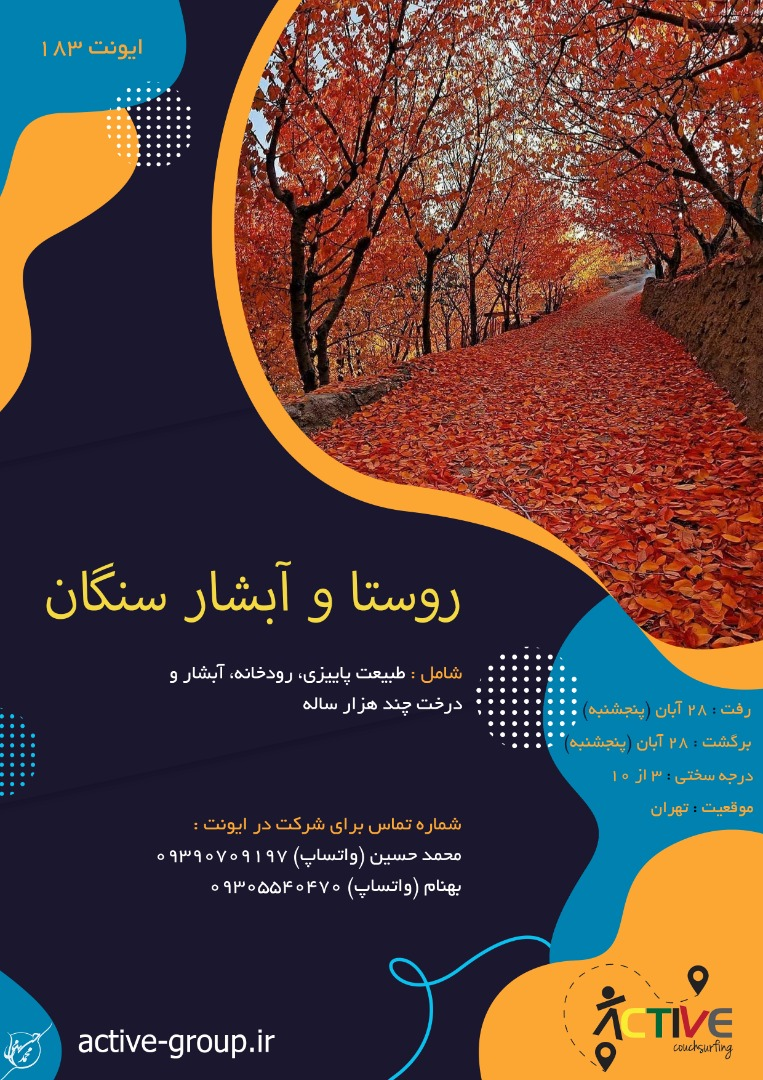
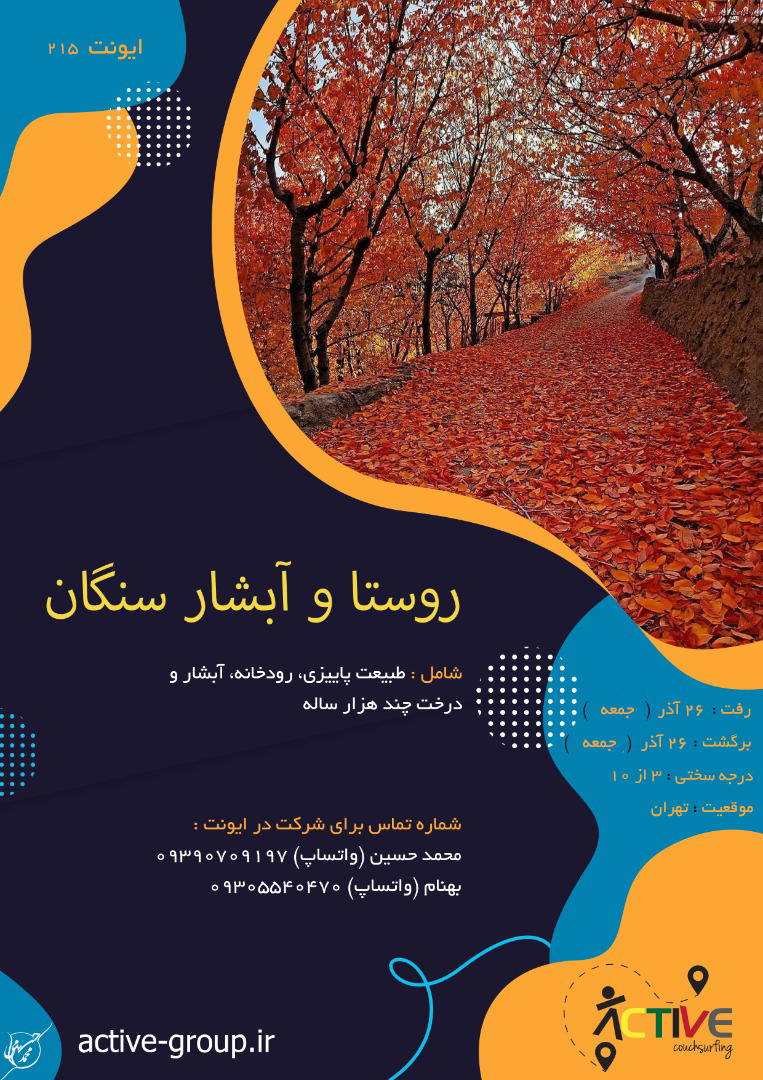
add new posts

diff --git a/_posts/2021-12-16-the-gate-of-gational-garden.md b/_posts/2021-12-16-the-gate-of-gational-garden.md
@@ -1,0 +1,102 @@
+---
+layout: post
+title: "ایونت 215 - میدان مشق"
+author: mhk
+categories: [Nature]
+tags: [nature, tehran]
+image: assets/img/nature/215-mashq.jpeg
+description: "ایونت 215 - میدان مشق"
+featured: true
+hidden: true
+rating: 5
+---
+
+## توضیحات
+میدان مشق تهران مجموعهای تاریخی در قلب پایتخت است که بناهایی از دوران قاجار و پهلوی به یادگار دارد. در طول سالهای پس از انقلاب، این میدان توسعه پیدا کرد و ساختمانهایی به آن اضافه شدند و برخی بناها نیز تغییر کاربری دادند. سردر باغ ملی در ورودی میدان مشق یکی از نمادهای تاریخی تهران است و این دروازه بههمراه دیگر بناهای تاریخی این میدان، از معروفترین جاهای دیدنی تهران به شمار میروند.  
+معماری ساختمانهای میدان مشق نمونههایی از معماری تاریخی ایران بهخصوص در دوره پهلوی اول هستند. در حال حاضر بناهای این میدان را بدون تغییر در بافت تاریخی آنها بازسازی و به ساختمانهای فرهنگی و دولتی تبدیل کردهاند. برای ساکنان پایتخت و گردشگرانی که به تهران سفر میکنند، میدان مشق از بهترین گزینههای گردشگری داخل شهر است. برای آشنایی بیشتر با میدان مشق، تاریخچه و ساختمانهای آن در ادامه با ما همراه باشید.  
+
+
+## راهنمای مسیر
+سردر باغ ملی نخستین سازهی است که در بدو ورود به این محوطه توجه شما را جلب خواهد کرد. این دروازه تاریخی را یکی از قدیمیترین نمادهای شهر تهران میدانند که از دوران پهلوی اول به جا مانده است. 
+
+ساختمان قزاقخانه در انتهای میدان مشق را بهعنوان قدیمیترین بنای میدان مشق میشناسند که در سال ۱۲۴۲ شمسی به دستور ناصرالدین شاه ساخته شد. کاربری نخست این میدان نظامی بود و به همین دلیل نیز نخستین بنای آن را برای تمرین نظامیان و اسکان سربازان در نظر گرفته بودند. با گذشت زمان بخشهای زیادی از این ساختمان از بین رفت؛ اما امروزه این بنا پس از بازسازی در اختیار دانشگاه هنر قرار گرفته است.  
+
+ساختمان کاخ شهربانی یکی از مهمترین ساختمانهای میدان مشق در گذشته بود که بین سالهای ۱۳۱۲ تا ۱۳۱۸ شمسی توسط مهندس «قلیچ باقلیان» و به دستور رضا شاه ساخته شد. در تزئین این بنا از شیوههای معماری سنتی ایرانی استفاده کردهاند و داخل ساختمان را نیز با الگوبرداری از معماری مدرن اروپا ساخته شدهاند. مهمترین نکته در معماری کاخ شهربانی الهام از کاخ آپادانا در طراحی نمای این ساختمان است.  
+نام کاخ شهربانی در فهرست میراث ملی ایران به چشم میخورد و در حال حاضر یکی از ساختمانهای متعلق به وزارت امور خارجه است. بازدید از داخل کاخ شهربانی برای عموم مردم میسر نیست؛ اما برای تماشای بنای این کاخ از سردر باغ ملی به محوطه میدان مشق وارد شوید. کاخ شهربانی در ضلع شرقی این میدان دارد.  
+
+باشگاه افسران میدان مشق نیز از دیگر بناهای تاریخی است که با طراحی «گابریل گورکیان» و معماری «وارطان آوانسیان» و «قلیچ باقلیان» ساخته شد. ساخت این بنا از سال ۱۳۱۳ تا ۱۳۱۶ شمسی طول کشید. در حال حاضر این بنا یکی از  ساختمانهای در اختیار وزارت امور خارجه در میدان مشق است.  
+
+موزه ارتباطات که از آن با نام موزه پست نیز یاد میکنند، در جوار سردر باغ ملی در مجموعه میدان مشق قرار دارد و در گذشته متعلق به اداره پست بود. این ساختمان تاریخی نیز همزمان با سایر بناهای این میدان و در طول سالهای ۱۳۰۷ تا ۱۳۱۳ شمسی ساخته شد. طراحی این بنا را «نیکلای مارکوف»، معمار روسی و مهندسی  ارمنی به نام «الگال گالستیانس» بر عهده داشتند و سازنده آن مهندسی ایرانی به نام مهندس «مظلومیان» بود.  
+
+موزه ایران باستان و کتابخانه ملی ایران در قسمت غربی میدان مشق قرار دارند و ورود به آنها از خیابان سی تیر انجام میشود. این بنا بین سالهای ۱۳۰۸ تا ۱۳۱۶ شمسی توسط معمار و طراح فرانسوی، «آندره گدار» و به دستور رضا شاه ساخته شد.  
+
+ساختمان کتابخانه و موزه ملی ملک آخرین بنای میدان مشق است که پس از انقلاب آن را ساختند. این بنا تنها ساختمان اضافه شده به این میدان پس از انقلاب است که زمین آن توسط حسین ملک خریداری و وقف شد. در معماری کتابخانه و موزه ملک، سبک معماری اسلامی به چشم میخورد که تفاوت زیادی با سایر بناهای این مجموعه دارد. ساخت این مجموعه در سال ۱۳۷۵ شمسی به پایان رسید.  
+
+
+
+## تاریخ و زمان سفر  
+  - `رفت`: پنجشنبه 25 آذر  
+  - `بازگشت`: پنجشنبه 25 آذر   
+  - `درجه سختی برنامه` : 1 از 10  
+  - `ساعت جمع شدن در محل حرکت` : 9 صبح
+  - `محل جمع شدن برای حرکت` : سردر باغ ملی
+
+## نکات
+
+`اماکن نزدیک` : مرزن آباد، کلاردشت   
+`مدت زمان بازدید` : 2 روز   
+`ساعت دسترسی` : شبانه روزی  
+`ورودی` : رایگان  
+`تغذیه` : به تعداد روزها
+
+## عکسها
+
+<p align="center">
+  <img src="/assets/img/posts/215+1/01.webp" alt="mhkarami97" width="600" />
+</p>
+
+<p align="center">
+  <img src="/assets/img/posts/215+1/02.webp" alt="mhkarami97" width="600" />
+</p>
+
+<p align="center">
+  <img src="/assets/img/posts/215+1/03.jpg" alt="mhkarami97" width="600" />
+</p>
+
+<p align="center">
+  <img src="/assets/img/posts/215+1/04.jpg" alt="mhkarami97" width="600" />
+</p>
+
+<p align="center">
+  <img src="/assets/img/posts/215+1/05.jpg" alt="mhkarami97" width="600" />
+</p>
+
+<p align="center">
+  <img src="/assets/img/posts/215+1/06.jpg" alt="mhkarami97" width="600" />
+</p>
+
+<p align="center">
+  <img src="/assets/img/posts/215+1/07.jpg" alt="mhkarami97" width="600" />
+</p>
+
+<p align="center">
+  <img src="/assets/img/posts/215+1/08.jpg" alt="mhkarami97" width="600" />
+</p>
+
+---
+
+## برای شرکت در ایونت، داشتن بیمه ورزشی و امضا فرم که در لینک قوانین آورده شده است، الزامی است
+
+`قوانین` : [rules](/rules-weekend)  
+
+---
+
+## لینکها
+
+`کوچسرفینگ` : [couchsurfing]() [نیاز به vpn]  
+
+`گروه موقت واتساپ` : [whatsapp]()  
+
+`آب و هوا` : [weather](https://fa.weather.town/forecast/iran/ostan-e-tehran/tehran-sar/#December-16)
+
+`موقعیت` : [map location]()  

diff --git a/_posts/2021-12-17-sangan.md b/_posts/2021-12-17-sangan.md
@@ -1,11 +1,11 @@
 ---
 layout: post
-title: "ایونت 183 - روستا و آبشار سنگان"
+title: "ایونت 215 - روستا و آبشار سنگان"
 author: mhk
 categories: [Nature]
 tags: [nature, tehran]
 image: assets/img/nature/183-sangan.jpeg
-description: "ایونت 183 - روستا و آبشار سنگان"
+description: "ایونت 215 - روستا و آبشار سنگان"
 featured: true
 hidden: true
 rating: 5
@@ -23,9 +23,9 @@ rating: 5
 درخت چنار هزارساله: این درخت با قدمت زیادی که دارد، مورد توجه توریست های بی شماری قرار گرفته است.  
 
 ## تاریخ و زمان سفر  
-  - `رفت`: پنجشنبه 27 آبان  
-  - `بازگشت`: پنجشنبه 27 آبان   
-  - `درجه سختی برنامه` : 3 از 10  
+  - `رفت`: جمعه 26 آذر  
+  - `بازگشت`: جمعه 26 آذر   
+  - `درجه سختی برنامه` : 2 از 10  
   - `ساعت تجمیع در محل حرکت` : 8 صبح
   - `محل قرار` : در آخر پست نشان داده شده است
   - `زمان برگشت` : پنجشنبه عصر
@@ -45,7 +45,7 @@ rating: 5
 
 `اماکن نزدیک` : تهران   
 
-`آدرس` : اتوبان تهران-چالوس  
+`آدرس` : مسیر کن  
 
 `مدت زمان بازدید` : 1 روز   
 
@@ -91,6 +91,6 @@ rating: 5
 
 `گروه موقت تلگرام` : [telegram]()
 
-`آب و هوا` : [weather](https://fa.weather.town/forecast/iran/ostan-e-tehran/tehran-sar/#November-18)
+`آب و هوا` : [weather](https://fa.weather.town/forecast/iran/ostan-e-tehran/tehran-sar/#December-17)
 
 `موقعیت` : [map location](https://www.google.com/maps/place/Sangan,+Tehran+Province/data=!4m2!3m1!1s0x3f8de73e2c280475:0x40de9aa671046ed7?sa=X&ved=2ahUKEwjAqNb8xJz0AhUwhf0HHRasCMgQ8gF6BAhZEAE)  
